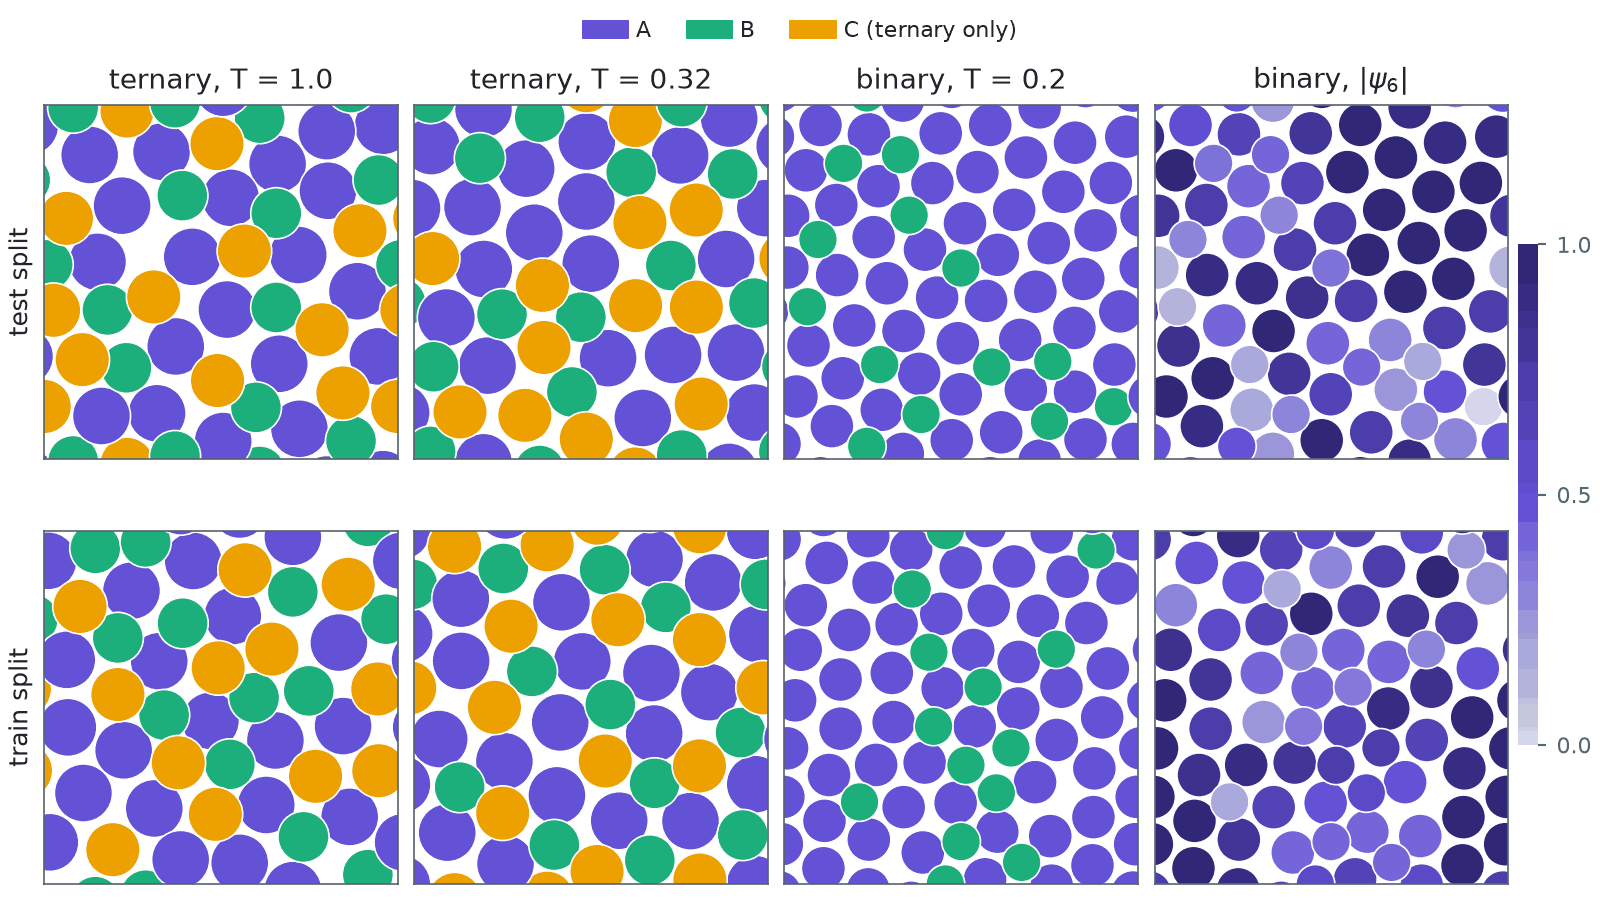
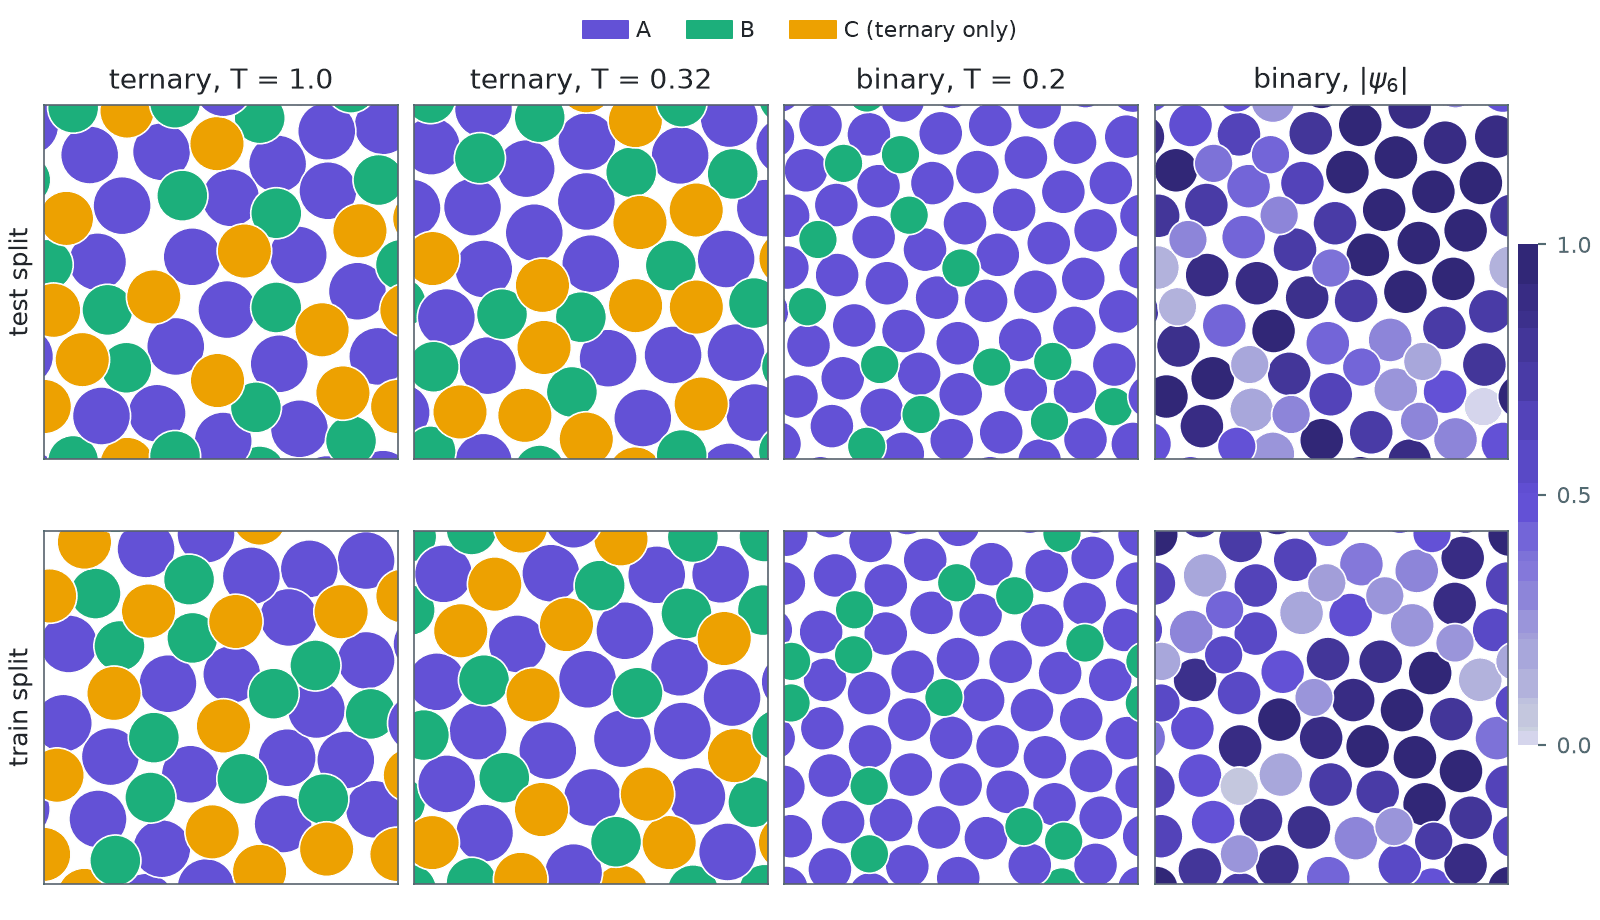
docs: Redraw the particle and glass pages for the hot train splits

Changed region(s): [[0.0, 0.5783, 0.9688, 0.9739]]

diff --git a/docs/targets/glasses.md b/docs/targets/glasses.md
@@ -24,11 +24,12 @@ One configuration of each split for every catalogued system, each particle a dis
 `sigma_ii`; on the ternary, the one closest to its split's median energy per particle. The train
 split's basins are a hundred Monte Carlo runs from a lattice with the particles shuffled over its
 sites, with swaps on the ternary, at temperatures on both sides of the target's; chains of
-displacement moves started in them, most in the coldest, give its configurations. The species are
+displacement moves started in them, most in the coldest and most of them run far hotter than the
+target, give its configurations. The species are
 mixed in both splits, so the ternary columns look alike and the difference is in the panel below.
 The last column shades the binary by its local hexatic order `|psi_6|`, on a configuration of each
 split typical in the crystalline order of A. In both, A crystallises away from the B particles; a
-median of 39% of the A particles have `|psi_6| > 0.8` in the train split, against 51% in the test
+median of 35% of the A particles have `|psi_6| > 0.8` in the train split, against 51% in the test
 split.
 
 ## Conventions
@@ -74,10 +75,10 @@ The panel on the 100 000-configuration train split against one half of the test 
 its floor, the other half scored against the same. The vertical line marks where
 `|g(r) - g_ref(r)|` peaks, the value `rdf_max_abs_err` reports. The shaded span is the panel's
 energy edges, from the reference; train energies outside it are dropped from `energy_total_var` and
-counted by `energy_out_of_range`. On all three systems the train energies reach past the test ones
-at both ends. On the ternary the two g(r) nearly coincide. On the binary the train split has fewer
-A-B contacts, the first peak, and `rdf_max_abs_err` reads 0.59 against a floor of 0.01; 9.7% of
-its energies fall outside the edges.
+counted by `energy_out_of_range`. On all three systems most of the train energies lie above the
+test ones, more than half of them past the edges, and only the tail of the cold chains overlaps the
+test histogram, reaching just past its lowest energy. The hot chains also lower and widen every
+peak of g(r): `rdf_max_abs_err` reads 0.60, 0.69 and 0.80 against floors of 0.01.
 
 ## Splits
 
@@ -85,7 +86,7 @@ its energies fall outside the edges.
 | --- | --- |
 | test, ternary | This library's swap Monte Carlo, `gen/swap_mc/generate.py`, published as `swapmc/<name>_<spec_id>.npy` and downloaded on first use. See [Reference sets](../reference-sets.md#swap-monte-carlo-the-ternary-glass). |
 | test, binary | This library's non-reversible parallel tempering, `gen/parallel_tempering/generate.py`, published as `pt/<name>_<spec_id>.npy` and downloaded on first use: 30 720 configurations at T = 0.2, 91% independent (see [Reference sets](../reference-sets.md#parallel-tempering-particles-and-the-binary-glass)). Cheng et al. 2026 published no configurations. |
-| train | Random displacements inside 100 basins. Each basin is a single-particle Monte Carlo chain run for 1500 time units (one time unit is `N` attempted moves), with `N(0, 0.065^2)` displacements and, on the ternary, swaps with probability 0.2. It starts from a lattice with every second row offset by half a spacing and the particles assigned to its sites at random, and runs at the target temperature times a factor running geometrically from 0.8 to 1.25 on the ternary and from 0.25 to 1.25 on the binary, whose cold chains reach its crystalline low end. Each of 1000 chains then starts from a basin, with shares from 1 to 10 that favour the coldest, and runs displacements only, at its own factor of the same range: 100 time units, then one configuration every 5. At T = 0.32 and on the binary the chains stay in their basins. Every test energy lies inside the train range. |
+| train | Random displacements inside 100 basins. Each basin is a single-particle Monte Carlo chain run for 1500 time units (one time unit is `N` attempted moves), with `N(0, 0.065^2)` displacements and, on the ternary, swaps with probability 0.2. It starts from a lattice with every second row offset by half a spacing and the particles assigned to its sites at random, and runs at the target temperature times a factor running geometrically from 0.8 to 1.25 on the ternary and from 0.25 to 1.25 on the binary, whose cold chains reach its crystalline low end. Each of 1000 chains then starts from a basin, with shares from 1 to 10 that favour the coldest, and runs displacements only at its own factor `low (high / low)^((i / 999)^0.5)`, from 0.6 to 4 on the ternary and from 0.15 to 4 on the binary: most chains run far hotter than the target, a thin run of colder ones stays in the deepest basins. 100 time units, then one configuration every 5. The bulk of the train energies lies above the test ones, and only the tail of the cold chains overlaps them, reaching just past their lowest. |
 
 <picture>
   <source media="(prefers-color-scheme: dark)" srcset="../figures/images/glasses_swap_dark.gif">
@@ -99,5 +100,5 @@ only until t = 2100, where the train split ends. The other takes displacements o
 one chain of each, the curves the mean energy per particle against the central 90% of the test
 split's energies. With swaps the mean enters that band at t = 530 and reads -2.60 when the split
 ends; with displacements only it reads -2.46 after 10 000 time units, above the band's top at
--2.54. The recipe itself spreads its basins and chains over temperatures on both sides of the
-target's.
+-2.54. The recipe itself makes its basins at temperatures on both sides of the target's and runs
+most of its chains far hotter.

diff --git a/docs/targets/particles.md b/docs/targets/particles.md
@@ -20,12 +20,13 @@ generated the published data (Köhler et al. 2020, Klein et al. 2023). The gener
 
 Top: six DW-4 configurations of each split, each turned onto its principal axes, with the six pair
 distances drawn. The test ones are the first six of the set; the train ones are the last state of
-six chains spread over the temperature ladder, each labelled with its factor. In both splits every
-pair sits in one of the two wells of the pair potential. Bottom: for each cluster, the test
-configuration at the median test energy, then the last state of the coldest and of the hottest train
-chain, at one scale, each particle shaded by its number of neighbours within `1.4 r`, the first
-minimum of the pair distribution. The cold train states are compact and the hot ones looser, and
-their energies bracket the test one on both clusters.
+six chains spread over the temperature ladder, each labelled with its factor. In the test split
+every pair sits in one of the two wells of the pair potential; the hot train chains also hold
+pairs on the barrier between them. Bottom: for each cluster, the test configuration at the median
+test energy, then the last state of the coldest and of the hottest train chain, at one scale, each
+particle shaded by its number of neighbours within `1.4 r`, the first minimum of the pair
+distribution. The cold train states are compact and below the test energy; the hot ones, which
+hold most of the split, have come apart, far above it.
 
 ## Conventions
 
@@ -65,18 +66,19 @@ and 100 352 for LJ-55), from `compute_metrics(train, ref_samples=test, return_hi
 bins half as wide as the panel's, each bin the share of all the samples it holds. The shaded bands
 lie outside the edges, where the panel drops mass without counting it in the total variation.
 `*_out_of_range` reports the dropped share of the scored samples, and the reference is cut the same
-way. The pair distances of the two splits coincide on all three systems, with `dist_total_var` at
-most 0.023. The energies differ. The temperature ladder widens the train histogram past both ends
-of the test one, LJ-55's mostly on the high side, and `energy_total_var` reads 0.148 on LJ-13 and
-0.296 on LJ-55. Below LJ-13's -60 edge lie 0.95% of the train energies and 0.25% of the test
-ones. On DW-4 the two energy histograms nearly coincide.
+way. Most of the train energies lie above the test ones, many past the panel's upper edge
+(`energy_out_of_range` 0.10 on DW-4, 0.53 on LJ-13 and 0.56 on LJ-55), and only the tail of the
+cold chains overlaps the test histogram, reaching just past its lowest energy. `energy_total_var`
+reads 0.67, 0.66 and 0.81 on what stays inside the edges. The pair distances spread wider too:
+the hot DW-4 chains fill the barrier between the two wells, and `dist_total_var` reads 0.33, 0.37
+and 0.14.
 
 ## Splits
 
 | Split | How it is built |
 | --- | --- |
 | test | This library's non-reversible parallel tempering, `gen/parallel_tempering/generate.py`, published as `pt/<name>_<spec_id>.npy` and downloaded on first use. See [Reference sets](../reference-sets.md#parallel-tempering-particles-and-the-binary-glass). |
-| train | 1000 MALA chains from a fixed lattice jittered by `N(0, 0.1^2)`, chain `i` at a temperature factor running geometrically from 0.8 to 1.25 with `i`. The step size of every chain adapts towards 57% acceptance over 1000 moves, after which each keeps one state every 10 moves. Returned frame by frame with the centre of mass removed, like the test split. The train energies reach past the test ones at both ends. |
+| train | 1000 MALA chains from a fixed lattice jittered by `N(0, 0.1^2)`, chain `i` at a temperature factor `low (high / low)^((i / 999)^0.5)`, from 0.8 to 3 on the clusters and from 0.5 to 20 on DW-4, so most chains run far hotter than the target and a thin run of colder ones reaches down to `low`. The step size of every chain adapts towards 57% acceptance over 1000 moves, after which each keeps one state every 10 moves. Returned frame by frame with the centre of mass removed, like the test split. The bulk of the train energies lies above the test ones, and only the tail of the colder chains overlaps them, reaching just past their lowest. |
 
 <picture>
   <source media="(prefers-color-scheme: dark)" srcset="../figures/images/particles_train_chain_dark.gif">
@@ -89,8 +91,8 @@ shaded by neighbour count as above. The shaded part of each trace is the step-si
 which the split does not keep; after it, every tenth state is a row of the split. Beside each trace
 are the energies of both whole splits. Each chain starts far above the plotted range and settles at
 a level set by its temperature. Over their kept states the cold chain averages -363.5, below the
-test split's 1st percentile, the middle one -308.1 against a test mean of -325.4, and the hot one
--252.6, above every test energy 81% of the time.
+test split's 1st percentile, while the middle and the hot one, at 1.55 and 3 times the
+temperature, average -128.8 and -30.6, above every test energy: most of the split sits there.
 
 The test split is this library's own parallel-tempering set, stationary under each target's own
 kernel (see [Reference sets](../reference-sets.md)).

diff --git a/docs/targets/README.md b/docs/targets/README.md
@@ -12,11 +12,13 @@ the test split covers and gets the rest wrong:
 The default train split, 100 000 samples at seed 0, is published with the reference sets and
 downloaded on first use, so every user reads the same array. Any other size or seed is generated
 locally and cached, by the recipe its target's `generate_train_samples` docstring states. On the targets with modes each chain draws its mode with skewed shares, starts
-from an exact draw of that mode and takes a short random walk. The particle systems and the
-posteriors run chains at a ladder of temperatures either side of the target's. The glasses make 100
-basins, with swap moves on the ternary, and run displacements inside them on such a ladder, the
-coldest basins taking the most chains. The peptides place every residue in a backbone basin,
-alpha-L the most often, and run Langevin dynamics from there.
+from an exact draw of that mode and takes a short random walk. The posteriors run chains at a
+ladder of temperatures either side of the target's. The particle systems run most of their chains
+far hotter than the target and a thin run of colder ones, so the train energies sit mostly above
+the test ones and only their low tail crosses them. The glasses do the same with displacements
+inside 100 basins made with swap moves on the ternary, the coldest basins taking the most chains.
+The peptides place every residue in a backbone basin, alpha-L the most often, and run Langevin
+dynamics from there.
 
 ```python
 import samplingdb
